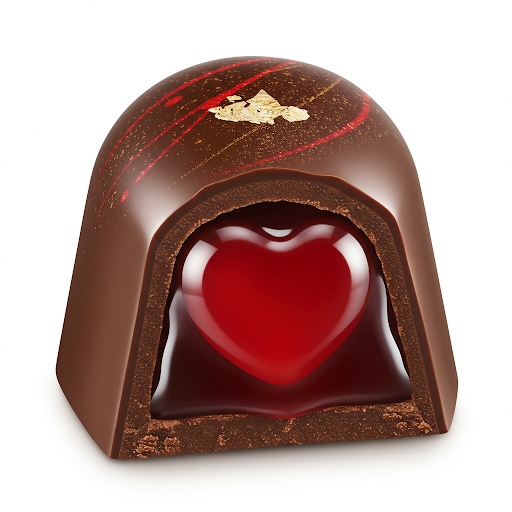
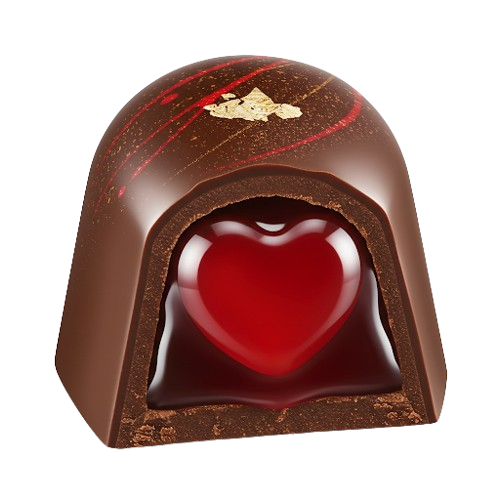
actualizacion final

diff --git a/index.html b/index.html
@@ -82,16 +82,15 @@
         <div class="cajaIndividual">
             <div class="bebida">
                 <div class="Imagen-fondo">
-                    <img src="Imagenes/chocolate matcha.png" alt="Chocolate clasico">
+                    <img src="Imagenes/dulce2.png" alt="Dulce mas vendido">
                 </div>
                 <h1 class=titulo>
-                    Chocolate Clásico
+                    Trufa de Placer
                 </h1>
                 <div class="parrafo">
                     <p>
-                        Un abrazo cálido en una taza. Hecho con auténtico chocolate en tableta,
-                        puedes elegir entre leche o agua para disfrutarlo a tu gusto, con el dulzor perfecto para
-                        reconfortar tu día.
+                        Un envoltorio de cacao intenso cubre un centro de crema suave, 
+                        creando una experiencia deliciosa que se derrite en tu boca con cada bocado
                     </p>
                 </div>
                 <div class="cajaprecio">
@@ -103,17 +102,14 @@
         <div class="cajaIndividual">
             <div class="bebida">
                 <div class="Imagen-fondo">
-                    <img src="Imagenes/chocolate especial 2.png" alt="Chocolate especial">
+                    <img src="../PaginaWeb/Imagenes/dulce6.png" alt="Chocolate especial">
                 </div>
                 <h1 class=titulo>
-                    Chocolate Especial
-                </h1>
+                    Bombón cerecita
+                                </h1>
                 <div class="parrafo">
                     <p>
-                        Una experiencia tradicional con un toque de magia.
-                        Chocolate oscuro 70% infusionado con canela, clavos de olor y un toque de vainilla para
-                        transportarte a los sabores de antaño.
-                    </p>
+                        Un delicado chocolate fino rodea un corazón líquido de licor de cereza, ofreciendo una mezcla perfecta de dulzura y un toque de licor que despierta los sentidos en cada bocado.</p>
                 </div>
                 <div class="cajaprecio">
                     <h1 class="precio"> $10.000</h1>
@@ -161,11 +157,7 @@
                 </div>
             </div>
         </div>
-
     </section>
-
-
-
 
 </body>
 

diff --git a/css/contactanos.css b/css/contactanos.css
@@ -4,6 +4,8 @@
     margin: 0;
     padding: 0;
     box-sizing: content-box;
+    font-family: 'Dancing Script';
+
 }
 
 header {
@@ -49,4 +51,86 @@ header {
 
 .link-menu:hover {
     color: white;
+}
+
+
+@media (max-width: 768px) {
+    .quienes-somos {
+        flex-direction: column;
+        text-align: center;
+    }
+
+    .contenido, .imagen {
+        width: 100%;
+    }
+
+    .contenido {
+        padding-right: 0;
+        margin-bottom: 20px;
+    }
+}
+
+
+.contacto {
+    margin: 2rem 0;
+    border-left: 4px solid #6B4423;
+    padding-left: 1.5rem;
+}
+
+.subtitulo {
+    font-size: 1.25rem;
+    color: var(--color-titulo);
+    margin-bottom: 0.75rem;
+}
+
+.telefono a {
+    font-size: 1.5rem;
+    color: #6B4423;
+    text-decoration: none;
+    transition: color 0.3s ease;
+}
+
+.telefono a:hover {
+    color: #4D3018;
+    text-decoration: underline;
+}
+
+.eventos {
+    background-color: rgba(107, 68, 35, 0.1);
+    padding: 1.5rem;
+    border-radius: 8px;
+    margin-top: 1.5rem;
+}
+
+.descripcion-evento {
+    font-size: 1rem;
+    color: #664422;
+    margin-bottom: 1rem;
+}
+
+.boton-evento {
+    display: inline-block;
+    background-color: #6B4423;
+    color: white !important;
+    padding: 0.8rem 1.5rem;
+    border-radius: 25px;
+    text-decoration: none;
+    font-weight: 500;
+    transition: transform 0.2s ease, background-color 0.3s;
+}
+
+.boton-evento:hover {
+    background-color: #543519;
+    transform: translateY(-2px);
+}
+
+@media (max-width: 768px) {
+    .telefono a {
+        font-size: 1.25rem;
+    }
+    
+    .boton-evento {
+        width: 100%;
+        text-align: center;
+    }
 }

diff --git a/Contactanos.html b/Contactanos.html
@@ -34,6 +34,26 @@
         </div>
     </header>
     
+     <section class="quienes-somos">
+        <div class="contenido">
+            <h2>¿Dónde nos puedes encontrar?</h2>
+            <p>La empresa Latte, dedicada a la producción de chocolate y sus derivados, se ubica en el municipio de Ventaquemada, Boyacá, cerca del emblemático Puente de Boyacá, sitio histórico donde se selló la independencia de Colombia en 1819. Su localización estratégica combina riqueza natural y valor patrimonial: está rodeada por paisajes andinos, verdes valles y el clima fresco típico de la región, ideal para actividades agrícolas y ganaderas que sustentan su producción.</p>
+        </div>
+        <div class="imagen">
+            <img src="../PaginaWeb/Imagenes/salon-de-mesas.jpg" alt="Nuestra empresa">
+        </div>
 
-</body>
+
+        <div class="eventos">
+            <h3 class="subtitulo">Eventos Chocolate</h3>
+            <p class="descripcion-evento">¡Visita nuestro taller de fabricación y participa en nuestras catas de chocolate artesanal! Agenda tu visita guiada.</p>
+            <a href="/eventos" class="boton-evento">Contactanos: +57 314 477 8982</a>
+        </div>
+    </div>
+    
+    <figure class="imagen">
+        <img src="../PaginaWeb/Imagenes/Gemini_Generated_Image_aga87saga87saga8.jpg" alt="Instalaciones de Chocolate Latte con mesas de degustación y exhibición de productos">
+    </figure>
+    </section>
+    </body>
 </html>

diff --git a/Bebidas.html b/Bebidas.html
@@ -31,7 +31,7 @@
         <div class="menu-derecha">
             <a href="Reposteria.html" class="link-menu">Repostería</a>
             <a href="Recetas.html" class="link-menu">Recetas Para Compartir</a>
-            <a href="Dulces.html" class="link-menu">Contactanos</a>
+            <a href="Contactanos.html" class="link-menu">Contactanos</a>
 
         </div>
     </header>

diff --git a/Dulces.html b/Dulces.html
@@ -30,7 +30,7 @@
         <div class="menu-derecha">
             <a href="Reposteria.html" class="link-menu">Repostería</a>
             <a href="Recetas.html" class="link-menu">Recetas Para Compartir</a>
-            <a href="Dulces.html" class="link-menu">Contactanos</a>
+            <a href="Contactanos.html" class="link-menu">Contactanos</a>
 
         </div>
     </header>
